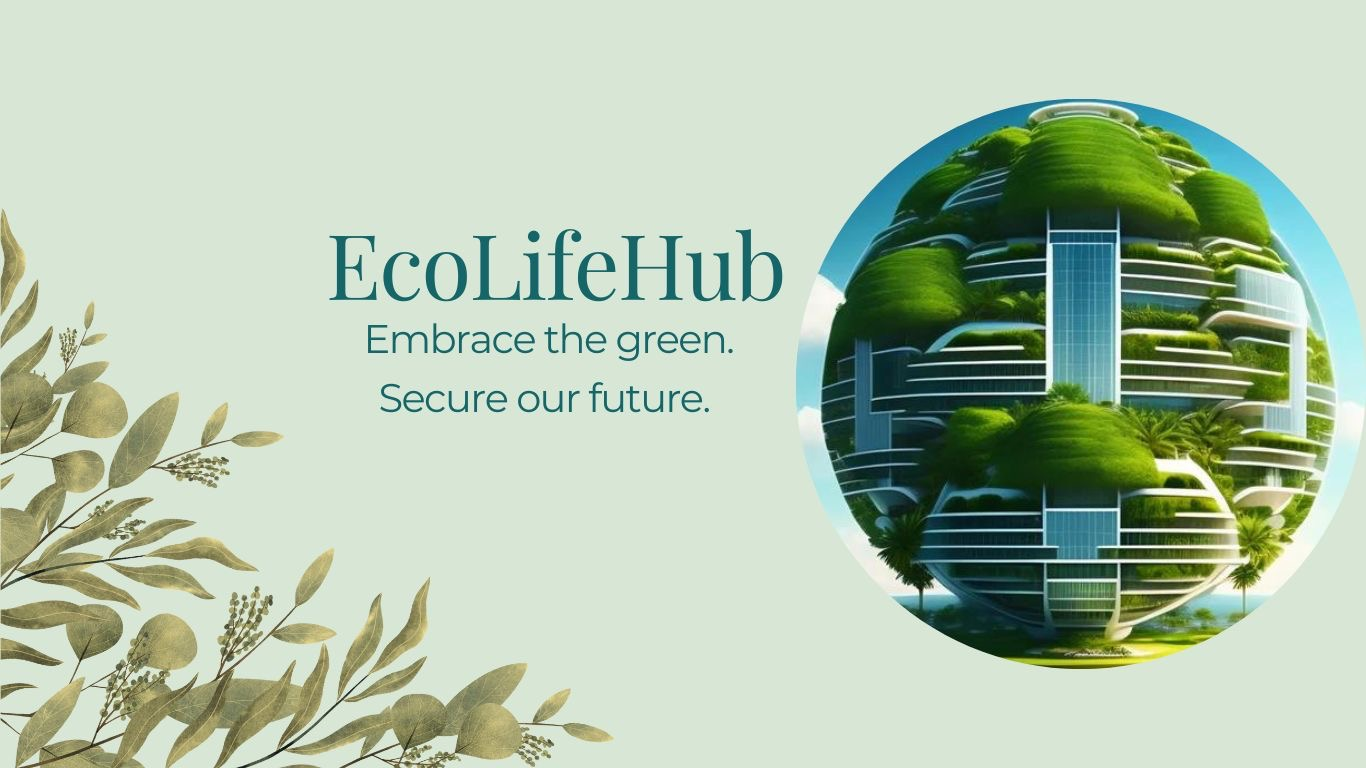
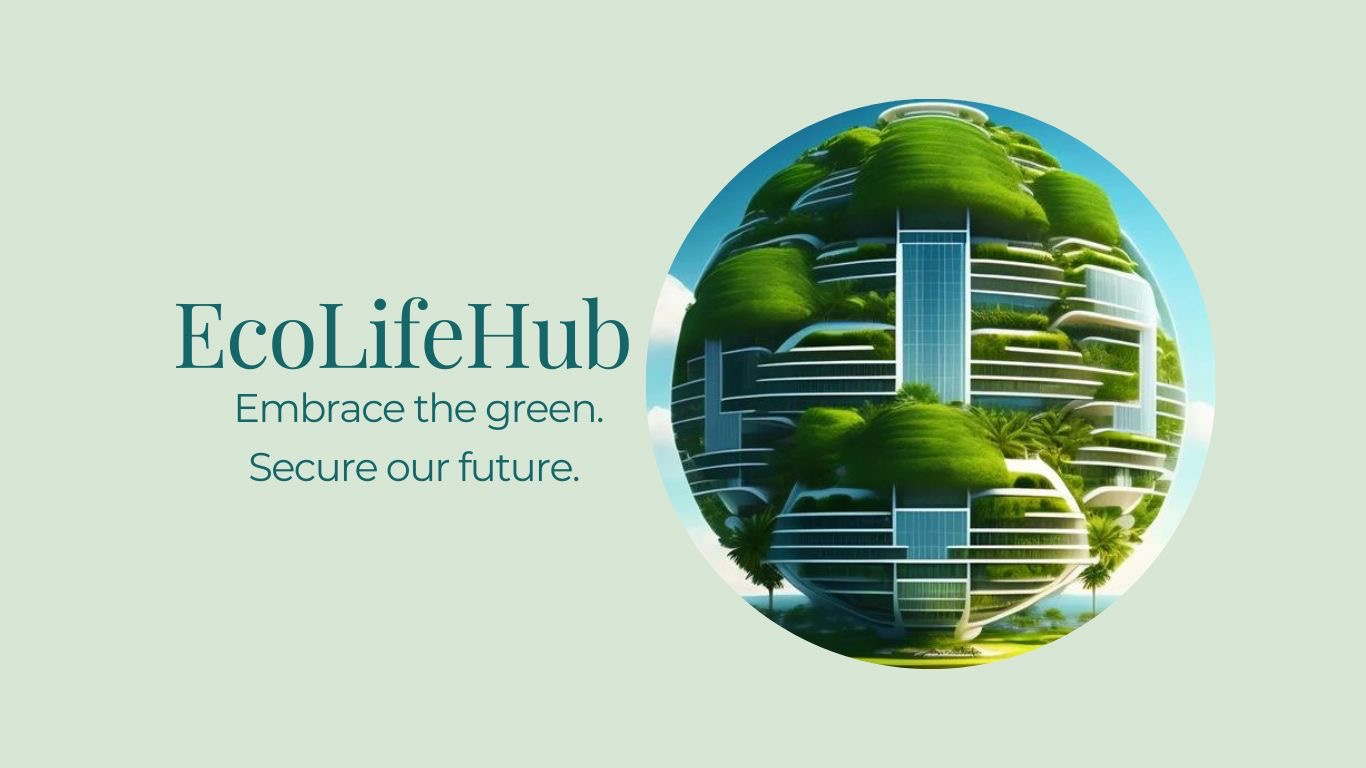
feat styled img css

diff --git a/index.html b/index.html
@@ -31,11 +31,11 @@
                 </li>
             </ul>
         </nav>
-        <section id="elh-outer">
-            <img src="/assets/image/elh.JPG" alt="grass globe representing sustainability">
-        </section>
         
     </header>
+    <section id="elh-outer">
+        <img src="/assets/image/elh.JPG" alt="grass globe representing sustainability">
+    </section>
 
  <script src="https://kit.fontawesome.com/d5e5e3db0c.js" crossorigin="anonymous"></script>
 

diff --git a/assets/css/style.css b/assets/css/style.css
@@ -54,4 +54,14 @@
     border: 2px solid #fff;
  }
 
+img {
+   display: block;
+   margin-left: auto;
+   margin-right: auto;
+   width: 90%;
+   border: 2px solid #fff;
+}
 
+#elh-outer {
+   background-color: #fff;
+}
